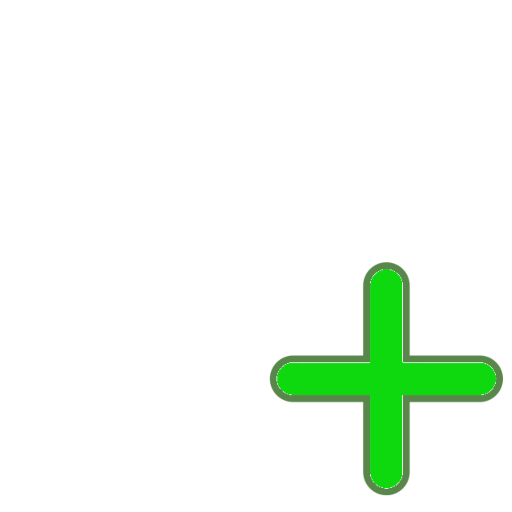
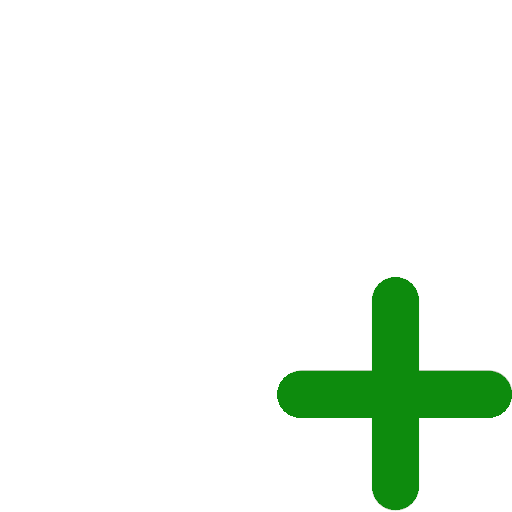
Updated ImageList to use 16 bit colour depth, fixed issue with path menu item expanding all children, causing a lockup scenario

Changed region(s): [[0.5, 0.5, 1.0, 1.0]]

diff --git a/TrayDir/src/utils/IconUtils.cs b/TrayDir/src/utils/IconUtils.cs
@@ -1,5 +1,6 @@
 using System.Collections.Generic;
 using System.Drawing;
+using System.Drawing.Drawing2D;
 using System.Threading;
 using System.Windows.Forms;
 
@@ -25,6 +26,7 @@ namespace TrayDir.utils {
 		public static int INDENT_OUT;
 		public static int FOLDER_SHORTCUT;
 		public static int SEPARATOR;
+		public static int SEPARATOR_NEW;
 		public static int RUNNABLE_ERROR;
 		public static int EMPTY;
 		public static int WEBLINK;
@@ -47,13 +49,15 @@ namespace TrayDir.utils {
 		public static Image FolderShortcutImage { get { return imageList.Images[FOLDER_SHORTCUT]; } }
 		public static Image EditImage { get { return imageList.Images[EDIT]; } }
 		public static Image SeparatorImage { get { return imageList.Images[SEPARATOR]; } }
-		public static Image RunnableError { get { return imageList.Images[RUNNABLE_ERROR]; } }
+		public static Image SeparatorNewImage { get { return imageList.Images[SEPARATOR_NEW]; } }
+		public static Image RunnableErrorImage { get { return imageList.Images[RUNNABLE_ERROR]; } }
 		public static Image Empty { get { return imageList.Images[EMPTY]; } }
-		public static Image WebLink { get { return imageList.Images[WEBLINK]; } }
+		public static Image WebLinkImage { get { return imageList.Images[WEBLINK]; } }
 		public static Image WebLinkNew { get { return imageList.Images[WEBLINK_NEW]; } }
 		public static void Init(int sizeWH) {
 			imageList = new ImageList();
 			imageList.ImageSize = new Size(sizeWH, sizeWH);
+			imageList.ColorDepth = ColorDepth.Depth16Bit;
 			imageList.Images.Add(TrayDir.Properties.Resources.document);       //0
 			IconUtils.DOCUMENT = 0;
 			imageList.Images.Add(TrayDir.Properties.Resources.folder);         //1
@@ -62,17 +66,17 @@ namespace TrayDir.utils {
 			IconUtils.FOLDER_BLUE = 2;
 			imageList.Images.Add(TrayDir.Properties.Resources.runnable);       //3
 			IconUtils.RUNNABLE = 3;
-			imageList.Images.Add(TrayDir.Properties.Resources.folder_blue_new);//4
+			imageList.Images.Add(Overlay(TrayDir.Properties.Resources.folder_blue, TrayDir.Properties.Resources.overlay_new));//4
 			IconUtils.FOLDER_BLUE_NEW = 4;
 			imageList.Images.Add(TrayDir.Properties.Resources.up);             //5
 			IconUtils.UP = 5;
 			imageList.Images.Add(TrayDir.Properties.Resources.down);           //6
 			IconUtils.DOWN = 6;
-			imageList.Images.Add(TrayDir.Properties.Resources.runnable_new);   //7
+			imageList.Images.Add(Overlay(TrayDir.Properties.Resources.runnable, TrayDir.Properties.Resources.overlay_new));   //7
 			IconUtils.RUNNABLE_NEW = 7;
-			imageList.Images.Add(TrayDir.Properties.Resources.document_new);   //8
+			imageList.Images.Add(Overlay(TrayDir.Properties.Resources.document, TrayDir.Properties.Resources.overlay_new));   //8
 			IconUtils.DOCUMENT_NEW = 8;
-			imageList.Images.Add(TrayDir.Properties.Resources.folder_new);     //9
+			imageList.Images.Add(Overlay(TrayDir.Properties.Resources.folder, TrayDir.Properties.Resources.overlay_new));     //9
 			IconUtils.FOLDER_NEW = 9;
 			imageList.Images.Add(TrayDir.Properties.Resources.delete);        //10
 			IconUtils.DELETE = 10;
@@ -82,13 +86,13 @@ namespace TrayDir.utils {
 			IconUtils.INDENT_IN = 12;
 			imageList.Images.Add(TrayDir.Properties.Resources.indent_out);     //13
 			IconUtils.INDENT_OUT = 13;
-			imageList.Images.Add(TrayDir.Properties.Resources.folder_shortcut);//14
+			imageList.Images.Add(Overlay(TrayDir.Properties.Resources.folder, TrayDir.Properties.Resources.overlay_shortcut));//14
 			IconUtils.FOLDER_SHORTCUT = 14;
 			imageList.Images.Add(TrayDir.Properties.Resources.edit);
 			IconUtils.EDIT = 15;
 			imageList.Images.Add(TrayDir.Properties.Resources.separator);
 			IconUtils.SEPARATOR = 16;
-			imageList.Images.Add(TrayDir.Properties.Resources.runnable_error);
+			imageList.Images.Add(Overlay(TrayDir.Properties.Resources.runnable, TrayDir.Properties.Resources.overlay_error));
 			IconUtils.RUNNABLE_ERROR = 17;
 			imageList.Images.Add(TrayDir.Properties.Resources.empty);
 			IconUtils.EMPTY = 18;
@@ -96,13 +100,17 @@ namespace TrayDir.utils {
 			IconUtils.WEBLINK = 19;
 			imageList.Images.Add(Overlay(TrayDir.Properties.Resources.weblink, TrayDir.Properties.Resources.overlay_new));
 			IconUtils.WEBLINK_NEW = 20;
+			imageList.Images.Add(Overlay(TrayDir.Properties.Resources.separator, TrayDir.Properties.Resources.overlay_new));
+			IconUtils.SEPARATOR_NEW = 21;
 			initialized = true;
 		}
-		private static Bitmap Overlay(Image source, Image overlay) {
+		private static Bitmap Overlay(Bitmap source, Bitmap overlay) {
 			Bitmap img = new Bitmap(source.Width, source.Height);
 			using (Graphics g = Graphics.FromImage(img)) {
-				g.DrawImage(source, new Point(0, 0));
-				g.DrawImage(overlay, new Point(0, 0));
+				g.InterpolationMode = InterpolationMode.NearestNeighbor;
+				g.PixelOffsetMode = PixelOffsetMode.HighQuality;
+				g.DrawImage(source, 0, 0, source.Width, source.Height);
+				g.DrawImage(overlay, 0, 0, source.Width, source.Height);
 			}
 			return img;
 		}

diff --git a/TrayDir/src/utils/IMenuItemIconUtils.cs b/TrayDir/src/utils/IMenuItemIconUtils.cs
@@ -75,6 +75,8 @@ namespace TrayDir.utils {
 						LoadIcon((IVirtualFolderMenuItem)mi);
 					} else if (mi.GetType() == typeof(IPluginMenuItem)) {
 						LoadIcon((IPluginMenuItem)mi);
+					} else if (mi.GetType() == typeof(IWebLinkMenuItem)) {
+						LoadIcon((IWebLinkMenuItem)mi);
 					}
 					if (mi.menuIcon != null) {
 						imgLoadedSemaphore.WaitOne();
@@ -95,9 +97,9 @@ namespace TrayDir.utils {
 				if (tp != null) {
 					if (tp.isScript) {
 						if (((TrayInstancePlugin)mi.tiItem).isValid()) {
-							mi.menuIcon = Properties.Resources.runnable;
+							mi.menuIcon = (Bitmap)IconUtils.RunnableImage;
 						} else {
-							mi.menuIcon = Properties.Resources.runnable_error;
+							mi.menuIcon = (Bitmap)IconUtils.RunnableErrorImage;
 						}
 					} else {
 						if (AppUtils.PathIsFile(tp.path)) {
@@ -117,10 +119,15 @@ namespace TrayDir.utils {
 		public static void LoadIcon(IVirtualFolderMenuItem mi) {
 			if (mi.menuIcon is null && mi.isVFolder) {
 				if (ProgramData.pd.settings.app.VFolderIcon != "Yellow Folder") {
-					mi.menuIcon = Properties.Resources.folder_blue;
+					mi.menuIcon = (Bitmap)IconUtils.FolderBlueImage;
 				} else {
-					mi.menuIcon = Properties.Resources.folder;
+					mi.menuIcon = (Bitmap)IconUtils.FolderImage;
 				}
+			}
+		}
+		public static void LoadIcon(IWebLinkMenuItem mi) {
+			if (mi.menuIcon is null && mi.isWebLink) {
+				mi.menuIcon = (Bitmap)IconUtils.WebLinkImage;
 			}
 		}
 		public static void LoadIcon(Queue<IMenuItem> queue, IPathMenuItem mi) {
@@ -144,9 +151,9 @@ namespace TrayDir.utils {
 				}
 			} else if (mi.menuIcon is null && mi.isDir) {
 				if (mi.tiItem != null && mi.tiItem.GetType() == typeof(TrayInstancePath) && ((TrayInstancePath)mi.tiItem).shortcut) {
-					mi.menuIcon = Properties.Resources.folder_shortcut;
+					mi.menuIcon = (Bitmap)IconUtils.FolderShortcutImage;
 				} else {
-					mi.menuIcon = Properties.Resources.folder;
+					mi.menuIcon = (Bitmap)IconUtils.FolderImage;
 				}
 			}
 		}

diff --git a/TrayDir/src/forms/ITreeViewForm.cs b/TrayDir/src/forms/ITreeViewForm.cs
@@ -77,7 +77,7 @@ namespace TrayDir {
 			treeView2.ExpandAll();
 			TreeNode folder = new TreeNode();
 			if (!IconUtils.initialized) {
-				IconUtils.Init(upButton.Font.Height);
+				IconUtils.Init(upButton.Font.Height + 2);
 			}
 			this.treeView2.ImageList = IconUtils.imageList;
 			updateImage(upButton, IconUtils.UP);
@@ -88,7 +88,7 @@ namespace TrayDir {
 			updateImage(newFolderButton, IconUtils.FOLDER_NEW);
 			updateImage(newPluginButton, IconUtils.RUNNABLE_NEW);
 			updateImage(newVirtualFolderButton, IconUtils.FOLDER_BLUE_NEW);
-			updateImage(newSeparatorButton, IconUtils.SEPARATOR);
+			updateImage(newSeparatorButton, IconUtils.SEPARATOR_NEW);
 			updateImage(newWebLinkButton, IconUtils.WEBLINK_NEW);
 			editButton.Image = IconUtils.EditImage;
 			editButton.TextImageRelation = TextImageRelation.ImageBeforeText;
@@ -158,7 +158,8 @@ namespace TrayDir {
 			return tn;
 		}
 		private void updateImage(Button b, int index) {
-			b.Image = IconUtils.imageList.Images[index];
+			b.BackgroundImageLayout = ImageLayout.Zoom;
+			b.BackgroundImage = IconUtils.imageList.Images[index];
 			b.Width = b.Height;
 		}
 		private void treeView2_AfterSelect(object sender, TreeViewEventArgs e) {
@@ -440,7 +441,7 @@ namespace TrayDir {
 			newTin.SetInstance(instance);
 
 			ITreeNode itn;
-			switch(newTin.type) {
+			switch (newTin.type) {
 				case TrayInstanceNode.NodeType.Path:
 					itn = new ITreePathNode(newTin);
 					break;
@@ -581,7 +582,7 @@ namespace TrayDir {
 		}
 		private void treeView2_NodeMouseDoubleClick(object sender, TreeNodeMouseClickEventArgs e) {
 			if (selectedNode != null) {
-				switch(selectedNode.tin.type) {
+				switch (selectedNode.tin.type) {
 					case TrayInstanceNode.NodeType.Plugin:
 						pluginPropertiesButton_Click(sender, e);
 						break;

diff --git a/TrayDir/src/views/IMenuItem/IPathMenuItem.cs b/TrayDir/src/views/IMenuItem/IPathMenuItem.cs
@@ -182,7 +182,6 @@ namespace TrayDir {
 					menuItem.DropDownItems.Add(child.menuItem);
 				}
 			}
-			LoadFolderChildren(null, null);
 		}
 		private void LoadFolderChildren(object sender, PaintEventArgs e) {
 			if (!painted && isDir && !((TrayInstancePath)tiItem).shortcut) {

diff --git a/TrayDir/src/views/ITray.cs b/TrayDir/src/views/ITray.cs
@@ -29,6 +29,7 @@ namespace TrayDir {
 				iml.AddRange(pathMenuItems);
 				iml.AddRange(virtualFolderMenuItems);
 				iml.AddRange(pluginMenuItems);
+				iml.AddRange(webLinkMenuItems);
 				return iml;
 			}
 		}
